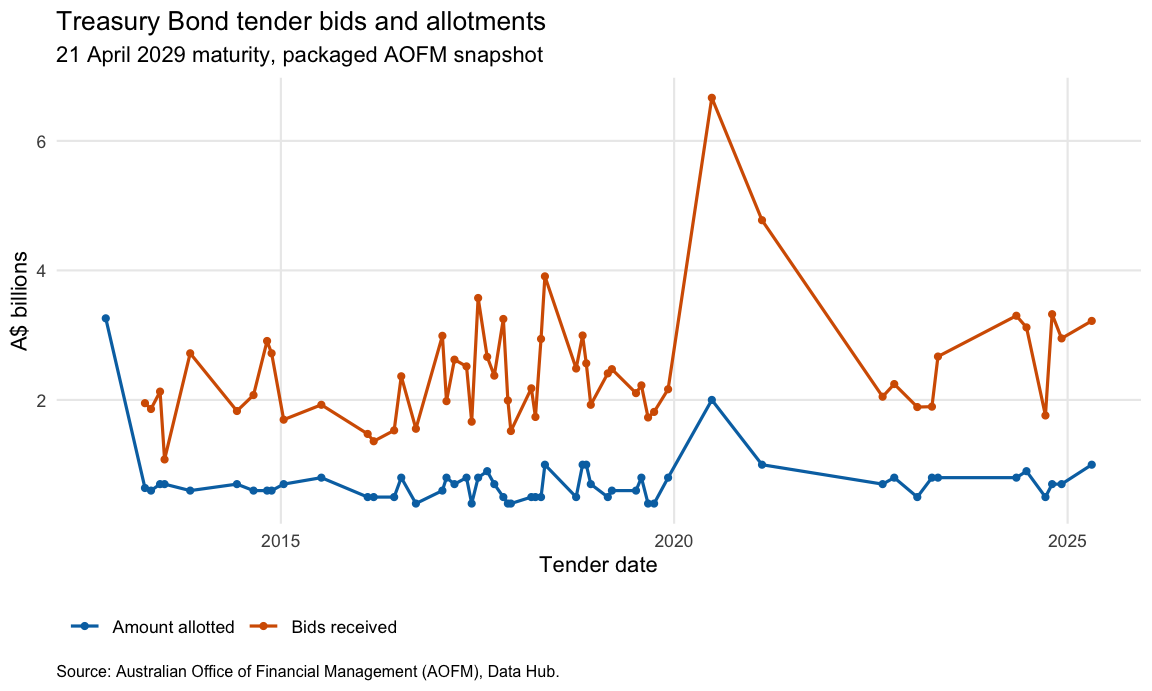
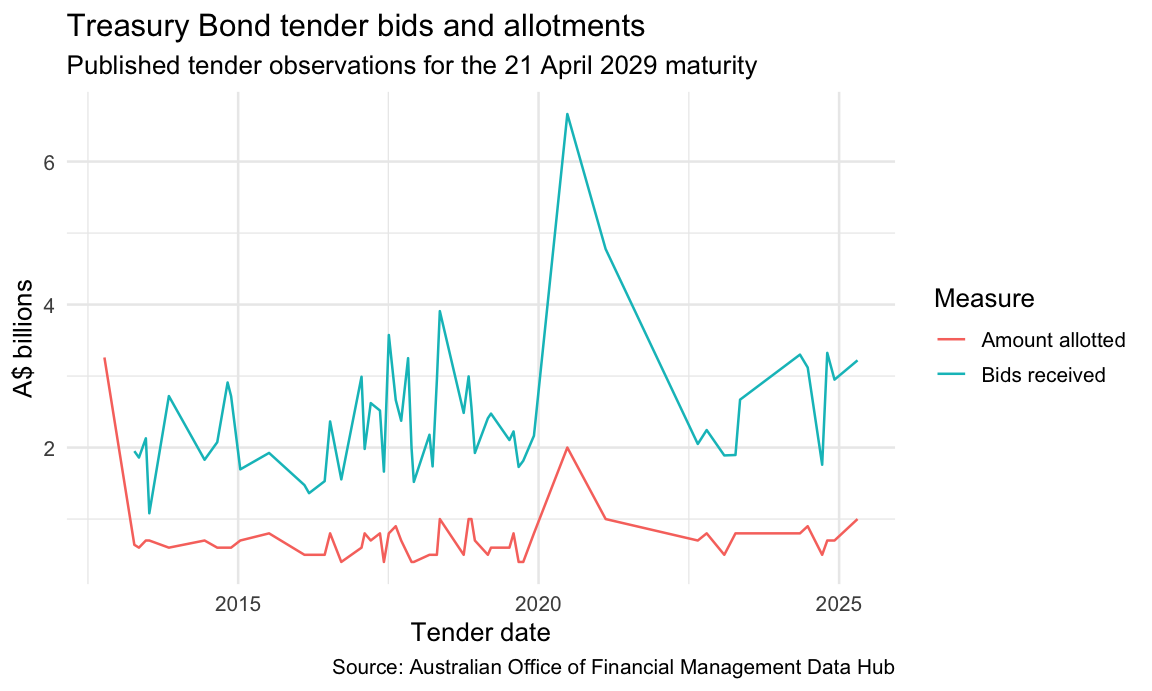
Simplify time-series chart examples

diff --git a/README.md b/README.md
@@ -74,78 +74,49 @@ long-running bond maturity and expresses the source values in A\$
 billions.
 
 ``` r
-measure_labels <- c(
+series_labels <- c(
   amount_allotted = "Amount allotted",
   amount_of_bids = "Bids received"
 )
 
-tender_series <- tb_issuance[
+selected <- tb_issuance[
   tb_issuance$maturity == as.Date("2029-04-21") &
-    tb_issuance$name %in% names(measure_labels) &
+    tb_issuance$name %in% names(series_labels) &
     !is.na(tb_issuance$value),
-  c("date_held", "maturity", "name", "value")
+  c("date_held", "name", "value")
 ]
 
-tender_series$measure <- factor(
-  tender_series$name,
-  levels = names(measure_labels),
-  labels = unname(measure_labels)
-)
-tender_series$value_billions <- tender_series$value / 1e9
-tender_series <- tender_series[
-  order(tender_series$measure, tender_series$date_held),
-  ,
-  drop = FALSE
-]
-
-series_preview <- utils::head(tender_series, 4)
-data.frame(
-  date_held = series_preview$date_held,
-  measure = as.character(series_preview$measure),
-  value_billions = sprintf("%.2f", series_preview$value_billions),
+chart_data <- data.frame(
+  date = selected$date_held,
+  value = selected$value / 1e9,
+  series = unname(series_labels[selected$name]),
   stringsAsFactors = FALSE
 )
-#>    date_held         measure value_billions
-#> 1 2012-10-10 Amount allotted           3.26
-#> 2 2013-04-10 Amount allotted           0.64
-#> 3 2013-05-08 Amount allotted           0.60
-#> 4 2013-06-19 Amount allotted           0.70
+chart_data <- chart_data[order(chart_data$series, chart_data$date), ]
+utils::head(chart_data, 4)
+#>         date value          series
+#> 1 2012-10-10  3.26 Amount allotted
+#> 2 2013-04-10  0.64 Amount allotted
+#> 4 2013-05-08  0.60 Amount allotted
+#> 6 2013-06-19  0.70 Amount allotted
 ```
 
 ``` r
 if (requireNamespace("ggplot2", quietly = TRUE)) {
-  tender_plot <- ggplot2::ggplot(
-    tender_series,
-    ggplot2::aes(
-      x = date_held,
-      y = value_billions,
-      colour = measure,
-      group = measure
-    )
+  ggplot2::ggplot(
+    chart_data,
+    ggplot2::aes(x = date, y = value, colour = series, group = series)
   ) +
-    ggplot2::geom_line(linewidth = 0.75) +
-    ggplot2::geom_point(size = 1.25) +
-    ggplot2::scale_colour_manual(values = c("#0072B2", "#D55E00")) +
+    ggplot2::geom_line() +
     ggplot2::labs(
       title = "Treasury Bond tender bids and allotments",
-      subtitle = "21 April 2029 maturity, packaged AOFM snapshot",
+      subtitle = "Published tender observations for the 21 April 2029 maturity",
       x = "Tender date",
       y = "A$ billions",
-      colour = NULL,
-      caption = paste(
-        "Source: Australian Office of Financial Management (AOFM),",
-        "Data Hub."
-      )
+      colour = "Measure",
+      caption = "Source: Australian Office of Financial Management Data Hub"
     ) +
-    ggplot2::theme_minimal(base_size = 11) +
-    ggplot2::theme(
-      legend.position = "bottom",
-      legend.justification = "left",
-      panel.grid.minor = ggplot2::element_blank(),
-      plot.caption = ggplot2::element_text(hjust = 0, size = 8)
-    )
-
-  tender_plot
+    ggplot2::theme_minimal(base_size = 13)
 }
 ```
 
